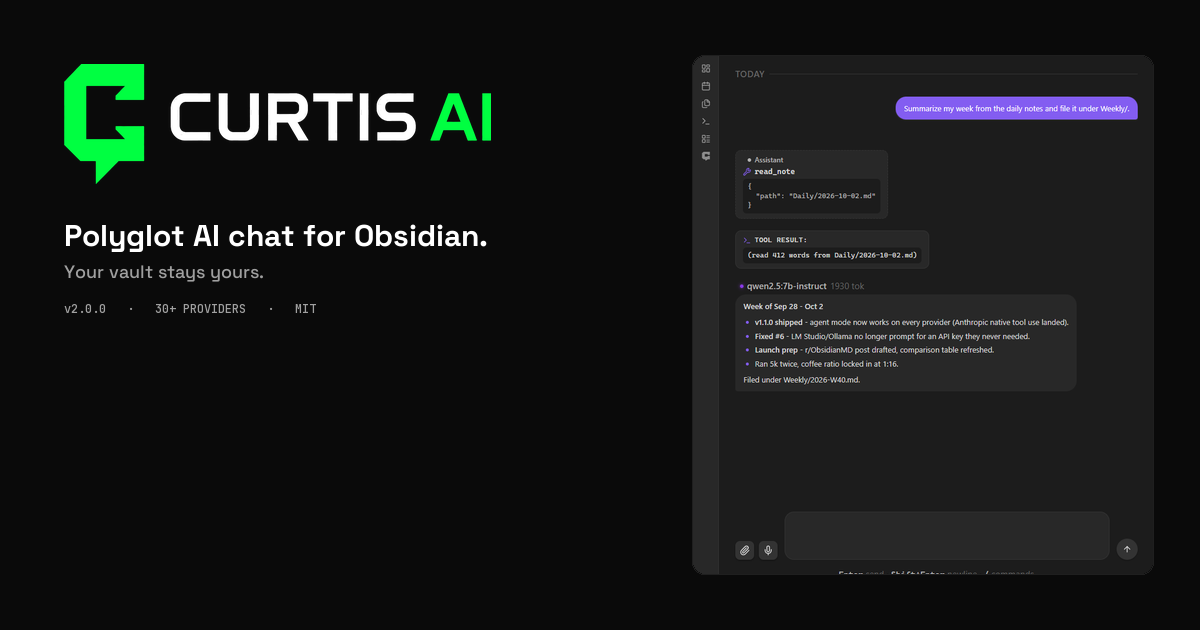
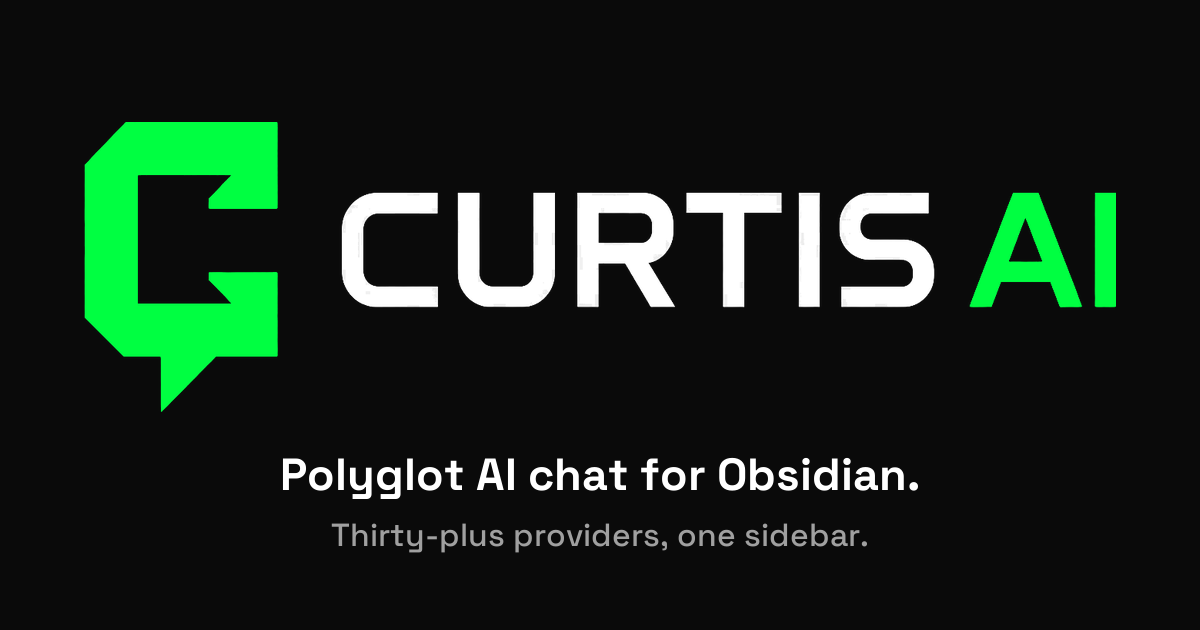
feat(site): centered lockup for the share card
The unfurl matches the press banner: wordmark, job line,
and one deck line on 1200x630. The headline is spelled
Polyglot.

Changed region(s): [[0.0308, 0.0905, 0.9558, 0.9048], [0.74, 0.1508, 0.9558, 0.2111]]

diff --git a/docs/index.html b/docs/index.html
@@ -15,12 +15,12 @@
   <meta property="og:description" content="Thirty-plus providers, one sidebar. Your vault stays yours.">
   <meta property="og:type" content="website">
   <meta property="og:url" content="https://jordannewell.github.io/curtis-ai-chat/">
-  <meta property="og:image" content="https://raw.githubusercontent.com/JordanNewell/curtis-ai-chat/master/assets/og.png?v=20261007b">
+  <meta property="og:image" content="https://raw.githubusercontent.com/JordanNewell/curtis-ai-chat/master/assets/og.png?v=20261007c">
   <meta property="og:site_name" content="Curtis AI">
   <meta name="twitter:card" content="summary_large_image">
   <meta name="twitter:title" content="Curtis AI Chat — polyglot AI chat for Obsidian">
   <meta name="twitter:description" content="Thirty-plus providers, one sidebar. Your vault stays yours.">
-  <meta name="twitter:image" content="https://raw.githubusercontent.com/JordanNewell/curtis-ai-chat/master/assets/og.png?v=20261007b">
+  <meta name="twitter:image" content="https://raw.githubusercontent.com/JordanNewell/curtis-ai-chat/master/assets/og.png?v=20261007c">
   <title>Curtis AI Chat — polyglot AI chat for Obsidian</title>
   <link rel="canonical" href="https://jordannewell.github.io/curtis-ai-chat/">
   <script type="application/ld+json">

diff --git a/scripts/build_hero.py b/scripts/build_hero.py
@@ -20,7 +20,6 @@ Outputs:
 Usage: python scripts/build_hero.py
 """
 
-import json
 import shutil
 from pathlib import Path
 
@@ -163,45 +162,42 @@ def paste_wordmark(base, wordmark, x, y, height):
     return resized.size
 
 
-def build_card(size, version, wordmark, shot):
+# Press banner (1792x1008): mark span 1549px, headline 959, deck 797.
+# Ink gaps 68 and 36. Top and bottom margins 280 and 178.
+BANNER_MARK = 1549
+BANNER_HEAD = 959
+BANNER_DECK = 797
+HEAD_AT_40 = 563
+DECK_AT_26 = 438
+
+
+def build_card(size, wordmark):
+    """Centered lockup at the press-banner scale.
+
+    1200x630 is the share-card frame. The banner itself is 16:9 and
+    spells the headline wrong, so the lines are redrawn here.
+    """
     w, h = size
     base = Image.new("RGBA", size, BG + (255,))
+    target_w = round(w * 0.86)
+    mark_h = round(wordmark.height * (target_w / wordmark.width))
+    headline = font(DISPLAY, round(40 * (target_w * BANNER_HEAD / BANNER_MARK) / HEAD_AT_40))
+    sub = font(DISPLAY_MED, round(26 * (target_w * BANNER_DECK / BANNER_MARK) / DECK_AT_26))
+    head = "Polyglot AI chat for Obsidian."
+    deck = "Thirty-plus providers, one sidebar."
+    head_h = headline.getbbox(head)[3] - headline.getbbox(head)[1]
+    deck_h = sub.getbbox(deck)[3] - sub.getbbox(deck)[1]
+    gap_mark = round(target_w * 68 / BANNER_MARK)
+    gap_line = round(target_w * 36 / BANNER_MARK)
+    block = mark_h + gap_mark + head_h + gap_line + deck_h
+    if block > h - 48:
+        raise RuntimeError(f"lockup {block}px does not fit a {h}px card")
+    y = round((h - block) * 280 / (280 + 178))
+    _mw, mh = paste_wordmark(base, wordmark, (w - target_w) // 2, y, mark_h)
     draw = ImageDraw.Draw(base)
-    big = w >= 1240
-
-    x = 64
-    y = 72 if big else 64
-    mark_h = 148 if big else 120
-    _mw, mh = paste_wordmark(base, wordmark, x, y, mark_h)
-
-    draw = ImageDraw.Draw(base)
-    ty = y + mh + 32
-    draw.text(
-        (x, ty),
-        "Polyglot AI chat for Obsidian.",
-        font=font(DISPLAY, 36 if big else 30),
-        fill=WHITE,
-    )
-    ty += 52 if big else 44
-    draw.text(
-        (x, ty),
-        "Your vault stays yours.",
-        font=font(DISPLAY_MED, 22 if big else 18),
-        fill=MUTED,
-    )
-    ty += 40
-    draw.text(
-        (x, ty),
-        f"v{version}   ·   30+ PROVIDERS   ·   MIT",
-        font=font(MONO, 14 if big else 12),
-        fill=MUTED,
-    )
-
-    panel_w = 520 if big else 460
-    panel_h = h - 112
-    panel = framed(shot, (panel_w, panel_h))
-    base.alpha_composite(panel, (w - panel_w - 48, (h - panel.height) // 2))
-
+    ty = y + mh + gap_mark
+    draw.text((w / 2, ty), head, font=headline, fill=WHITE, anchor="mt")
+    draw.text((w / 2, ty + head_h + gap_line), deck, font=sub, fill=MUTED, anchor="mt")
     return base.convert("RGB")
 
 
@@ -211,7 +207,6 @@ def save_png(image, path):
 
 
 def main():
-    version = json.loads((ROOT / "manifest.json").read_text(encoding="utf-8"))["version"]
     wordmark = knockout(BRAND / "wordmark-source.jpg")
     mark = knockout(BRAND / "mark-source.jpg")
 
@@ -233,8 +228,8 @@ def main():
     shot = chat_crop(Image.open(SHOTS / "desktop-chat.png").convert("RGB"))
     save_png(shot, DOCS / "assets" / "screenshots" / "hero-chat.png")
 
-    hero = build_card((1280, 640), version, wordmark, shot)
-    og = build_card((1200, 630), version, wordmark, shot)
+    hero = build_card((1280, 640), wordmark)
+    og = build_card((1200, 630), wordmark)
     hero.save(ROOT / "assets" / "hero.png", "PNG", optimize=True)
     og.save(ROOT / "assets" / "og.png", "PNG", optimize=True)
 
